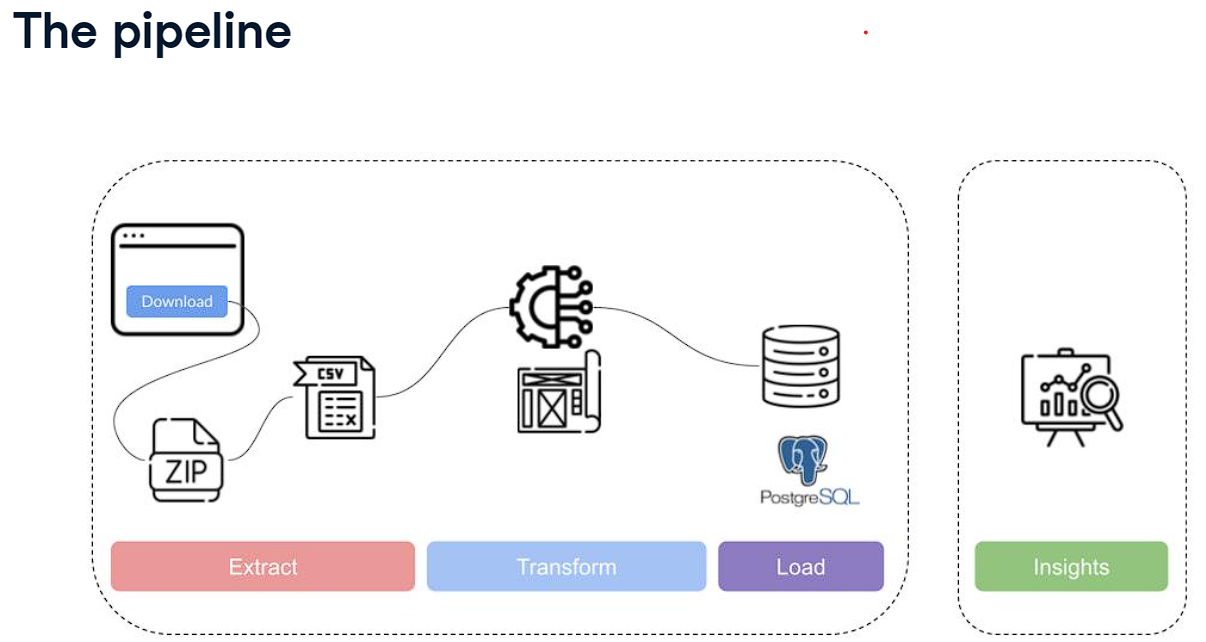
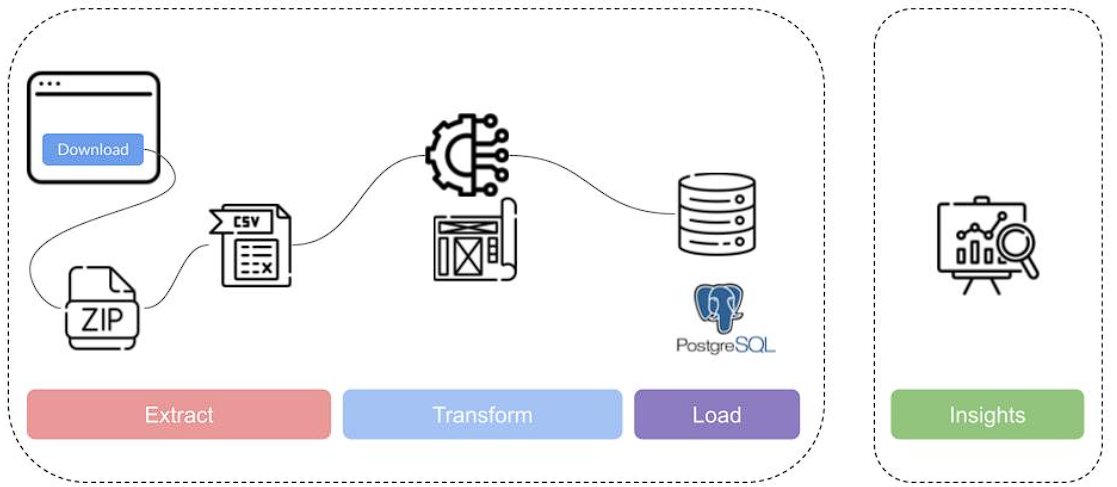
Update README

diff --git a/README.md b/README.md
@@ -1,2 +1,82 @@
 # ETL-residential-property-data
 Python-based ETL pipeline for processing and managing residential property sales data in Ireland. 
+
+This project is an Extract, Transform, Load (ETL) pipeline for processing residential property data from a public source and loading it into a PostgreSQL database. The pipeline consists of three main steps: extraction, transformation, and loading.
+
+## Overview
+
+The ETL process is designed to handle residential property data, applying various transformations to the raw data before loading it into a clean database table. The project uses Python and SQLAlchemy for database interactions.
+
+![ETL Pipeline](images/1_pipeline.png)
+
+### Key Features
+
+- **Extraction:** The project sources data from a ZIP file retrieved from an external website.
+  
+- **Transformation:** Robust data cleaning, filtering, and restructuring processes ensure that the data is standardized and ready for analysis.
+
+- **Loading:** Efficient insertion of transformed data into a PostgreSQL database.
+
+- **Analysis and Reporting:** Utilization of the PostgreSQL database for data analysis, providing a foundation for informed decision-making.
+
+- **CSV Handling:** Reading, processing, and writing of CSV files during extraction and transformation phases.
+
+- **Exception Handling:** Robust mechanisms for handling exceptions throughout the project provide meaningful error messages for debugging and user understanding.
+
+
+## Structure
+
+```bash
+residential-property-data-etl/
+│   └── data/
+│       ├── raw/
+│       │   └── downloaded_at=<current_date>/
+│       │       └── ppr-all.csv
+│       └── source/
+│           └── downloaded_at=<current_date>/
+│               └── PPR-ALL.zip
+│
+├── scripts/
+│   ├── common/
+│   │   ├── base.py
+│   │   ├── create_tables.py
+│   │   └── tables.py
+│   │
+│   ├── execute.py
+│   ├── extract.py
+│   ├── load.py
+│   └── transform.py
+│
+├── .gitignore
+├── README.md
+└── requirements.txt
+```
+
+## data/
+- **raw/**
+  - *downloaded_at=<current_date>/*
+    - `ppr-all.csv`: Raw data file downloaded from the source containing property transactions.
+
+- **source/**
+  - *downloaded_at=<current_date>/*
+    - `PPR-ALL.zip`: ZIP file downloaded from the external website containing property transaction data.
+
+## scripts/
+### common/
+- **`base.py`**: Contains the SQLAlchemy `Base` class, the base class for all declarative class definitions in SQLAlchemy.
+
+- **`create_tables.py`**: Script for creating database tables. Defines tables (`PprRawAll` and `PprCleanAll`) and ensures the `ppr_raw_all` table is empty with the primary key sequence restarted.
+
+- **`tables.py`**: Defines the structure of the database tables (`PprRawAll` and `PprCleanAll`). Includes columns such as `id`, `date_of_sale`, `address`, `postal_code`, `county`, `price`, `description`, and `transaction_id`.
+
+### execute.py
+- Entry point for executing the ETL process.
+
+### extract.py
+- This script handles the extraction phase of the ETL process. It downloads a snapshot ZIP file from an external website, checks if the file already exists, and, if not, creates the necessary folders and downloads the file. In case of an error during download, it raises an exception and exits the script. After ensuring the snapshot file is available, it extracts the contents of the ZIP file, processes the CSV data, and saves the processed data to the output CSV file in the "raw" data directory. If the output CSV file already exists, it skips the process, preventing redundant data extraction.
+
+### load.py
+- The loading phase is executed by this script, handling the insertion and deletion operations in the clean table. It retrieves transaction IDs from the clean table, fetches transactions from the raw table that do not exist in the clean table, and inserts the selected columns (date_of_sale, address, postal_code, county, price, description) into the clean table. Simultaneously, it identifies transactions in the clean table without corresponding entries in the raw table and deletes those transactions from the clean table. This deletion ensures that the clean table stays synchronized with the latest snapshot, preventing outdated or irrelevant data from persisting. The script ends by closing the database session.
+
+### transform.py
+- The transformation phase is managed by this script. It applies various transformations to the data obtained from the "raw" CSV file. These transformations include updating the date format, converting strings to lowercase, and simplifying the property description. It then creates PprRawAll objects, each representing a row in the CSV file, and saves these objects to the database. Before saving, it truncates the "ppr_raw_all" table to ensure it is empty, preventing duplicate entries. If an error occurs during the transformation or data saving process, it raises an exception and exits the script.
